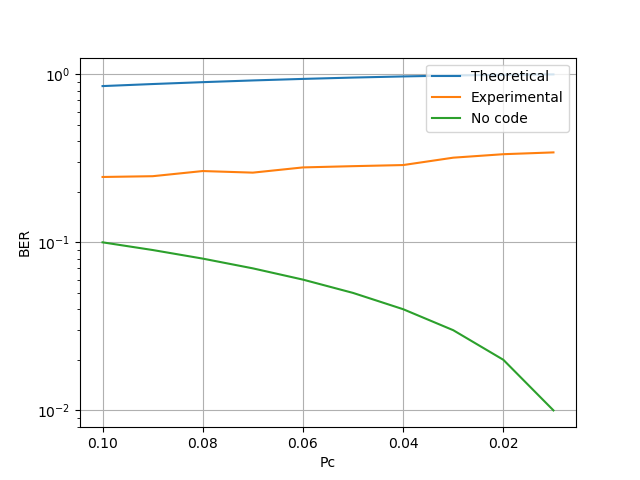
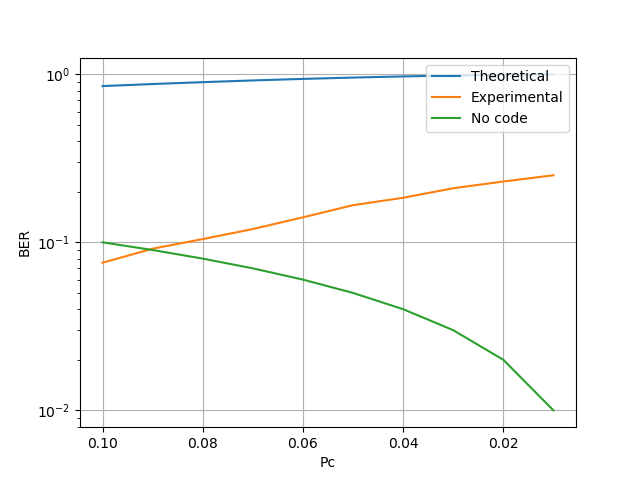
Make decoder() correct 1 bit of error and return 4bit decoded message and compare word to decodedword while plotting

diff --git a/hamming.py b/hamming.py
@@ -86,35 +86,36 @@ def decoder(encodedMessage):
         SyndromeString += str(bit)
     SyndromeDecimal = int(SyndromeString, 2)
     if SyndromeDecimal == 0:
-        return encMsg
+        decMsg = [encMsg[2],encMsg[4],encMsg[5],encMsg[6]]
+        return decMsg
     if SyndromeDecimal == 1:
         toggle(encMsg, 0)
-        # decMsg = [encMsg[2],encMsg[4],encMsg[5],encMsg[6]]
-        return encMsg
+        decMsg = [encMsg[2],encMsg[4],encMsg[5],encMsg[6]]
+        return decMsg
     if SyndromeDecimal == 2:
         toggle(encMsg, 1)
-        # decMsg = [encMsg[2],encMsg[4],encMsg[5],encMsg[6]]
-        return encMsg
+        decMsg = [encMsg[2],encMsg[4],encMsg[5],encMsg[6]]
+        return decMsg
     if SyndromeDecimal == 3:
         toggle(encMsg, 2)
-        # decMsg = [encMsg[2],encMsg[4],encMsg[5],encMsg[6]]
-        return encMsg
+        decMsg = [encMsg[2],encMsg[4],encMsg[5],encMsg[6]]
+        return decMsg
     if SyndromeDecimal == 4:
         toggle(encMsg, 3)
-        # decMsg = [encMsg[2],encMsg[4],encMsg[5],encMsg[6]]
-        return encMsg
+        decMsg = [encMsg[2],encMsg[4],encMsg[5],encMsg[6]]
+        return decMsg
     if SyndromeDecimal == 5:
         toggle(encMsg, 4)
-        # decMsg = [encMsg[2],encMsg[4],encMsg[5],encMsg[6]]
-        return encMsg
+        decMsg = [encMsg[2],encMsg[4],encMsg[5],encMsg[6]]
+        return decMsg
     if SyndromeDecimal == 6:
         toggle(encMsg, 5)
-        # decMsg = [encMsg[2],encMsg[4],encMsg[5],encMsg[6]]
-        return encMsg
+        decMsg = [encMsg[2],encMsg[4],encMsg[5],encMsg[6]]
+        return decMsg
     if SyndromeDecimal == 7:
         toggle(encMsg, 6)
-        # decMsg = [encMsg[2],encMsg[4],encMsg[5],encMsg[6]]
-        return encMsg
+        decMsg = [encMsg[2],encMsg[4],encMsg[5],encMsg[6]]
+        return decMsg
 
 PcRange = [0.01, 0.02, 0.03, 0.04, 0.05, 0.06, 0.07, 0.08, 0.09, 0.1]
 errate = []
@@ -125,12 +126,10 @@ for Pc in PcRange:
         wcount += 1
         word = createRandomMessage()
         encodedWord = encoder(word)
-        # encodedWord = [1,1,1,1,1,1,1]
         errEncWord = bsc(encodedWord, Pc)
         decodedWord = decoder(errEncWord)
-        # decodedWord = [1,1,1,0,1,1,1]
-        for i in range(0,7):
-            if encodedWord[i] != decodedWord[i]:
+        for i in range(0,4):
+            if word[i] != decodedWord[i]:
                 ecount += 1
                 break
         if ecount > 1000:
